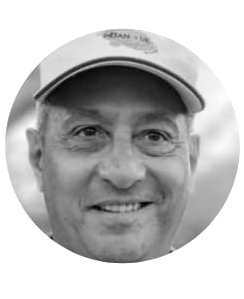
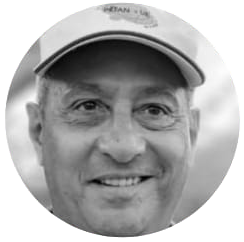
6 mods: remove value borders, motto font size, translate labels, consistent headers, contact crop/compact, news scroll

diff --git a/src/app/[locale]/contact/page.tsx b/src/app/[locale]/contact/page.tsx
@@ -19,8 +19,8 @@ function ContactContent() {
     <>
       {/* Header */}
       <section style={{ background: "#0a0a0a", color: "#fff", borderBottom: "2px solid #F06000" }}>
-        <div className="max-w-7xl mx-auto px-6 py-12">
-          <p className="text-xs font-black uppercase tracking-widest mb-4" style={{ color: "#F06000" }}>
+        <div className="max-w-7xl mx-auto px-6 py-8">
+          <p className="text-xs font-black uppercase tracking-widest mb-3" style={{ color: "#F06000" }}>
             05 — Club Sportiv Pétanque Corbeanca
           </p>
           <h1
@@ -45,7 +45,7 @@ function ContactContent() {
             {contacts.map((c, i) => (
               <div
                 key={c.label}
-                className="px-6 py-8 grid md:grid-cols-3 items-center"
+                className="px-6 py-5 grid md:grid-cols-3 items-center"
                 style={{ borderBottom: i < contacts.length - 1 ? "2px solid #f2f2f2" : "none" }}
               >
                 <p className="text-xs font-black uppercase tracking-widest mb-2 md:mb-0" style={{ color: "#888" }}>
@@ -72,7 +72,7 @@ function ContactContent() {
 
           {/* Right image — hidden on mobile */}
           <div className="hidden md:block" style={{ overflow: "hidden", borderLeft: "2px solid #0a0a0a" }}>
-            <img src="/petanque-corbeanca-vert.jpg" alt="Club Sportiv Pétanque Corbeanca" style={{ width: "100%", height: "100%", objectFit: "cover", objectPosition: "center center" }} />
+            <img src="/petanque-corbeanca-vert.jpg" alt="Club Sportiv Pétanque Corbeanca" style={{ width: "100%", height: "100%", objectFit: "cover", objectPosition: "center 65%" }} />
           </div>
 
         </div>
@@ -81,7 +81,7 @@ function ContactContent() {
 
       {/* Note */}
       <section style={{ background: "#F06000", color: "#fff" }}>
-        <div className="max-w-7xl mx-auto px-6 py-12">
+        <div className="max-w-7xl mx-auto px-6 py-6">
           <p className="font-black uppercase text-2xl md:text-3xl mb-2" style={{ letterSpacing: "-0.03em" }}>
             {t("message_title")}
           </p>

diff --git a/src/app/[locale]/about/page.tsx b/src/app/[locale]/about/page.tsx
@@ -33,7 +33,7 @@ function AboutContent() {
           <div className="grid md:grid-cols-2 gap-16 pb-10">
             <div>
               <p className="text-xs font-black uppercase tracking-widest mb-4" style={{ color: "#F06000" }}>
-                Istoria clubului
+                {t("history_label")}
               </p>
               <h2 className="font-black uppercase text-2xl md:text-3xl mb-6" style={{ letterSpacing: "-0.03em" }}>
                 {t("history_title")}
@@ -42,7 +42,7 @@ function AboutContent() {
             </div>
             <div style={{ paddingLeft: "3rem" }}>
               <p className="text-xs font-black uppercase tracking-widest mb-4" style={{ color: "#F06000" }}>
-                Sportul
+                {t("sport_label")}
               </p>
               <h2 className="font-black uppercase text-2xl md:text-3xl mb-6" style={{ letterSpacing: "-0.03em" }}>
                 {t("petanque_title")}
@@ -76,7 +76,6 @@ function AboutContent() {
               <div
                 key={item.n}
                 className="p-8 md:p-10"
-                style={{ borderRight: i < 2 ? "2px solid #0a0a0a" : "none" }}
               >
                 <p className="font-black text-5xl mb-6" style={{ color: "#f2f2f2", WebkitTextStroke: "2px #0a0a0a" }}>
                   {item.emoji}
@@ -169,7 +168,7 @@ function AboutContent() {
             </p>
             <h2
               className="font-black uppercase leading-none mb-6"
-              style={{ fontSize: "clamp(3rem, 10vw, 7rem)", letterSpacing: "-0.04em", lineHeight: 0.88 }}
+              style={{ fontSize: "clamp(2rem, 6vw, 4.5rem)", letterSpacing: "-0.04em", lineHeight: 0.9 }}
             >
               {t("motto_line1")}<br />
               <span style={{ color: "rgba(255,255,255,0.3)" }}>{t("motto_line2")}</span><br />

diff --git a/src/app/[locale]/news/page.tsx b/src/app/[locale]/news/page.tsx
@@ -78,7 +78,7 @@ function NewsContent() {
   return (
     <>
       <section style={{ background: "#0a0a0a", color: "#fff", borderBottom: "2px solid #F06000" }}>
-        <div className="max-w-7xl mx-auto px-6 py-14">
+        <div className="max-w-7xl mx-auto px-6 py-8">
           <p className="text-xs font-black uppercase tracking-widest mb-3" style={{ color: "#F06000" }}>
             04 — Știri
           </p>
@@ -103,11 +103,11 @@ function NewsContent() {
         <div className="max-w-7xl mx-auto grid grid-cols-1 md:grid-cols-[1fr_400px]">
 
           {/* Articles */}
-          <div>
+          <div style={{ overflowY: "auto", maxHeight: "580px" }}>
           {articles.map((article, i) => {
             const inner = (
               <div
-                className="px-6 py-7 grid md:grid-cols-4 gap-4 items-start group"
+                className="px-6 py-4 grid md:grid-cols-4 gap-4 items-start group"
                 style={{ borderBottom: i < articles.length - 1 ? "2px solid #f2f2f2" : "none" }}
               >
                 <div>

diff --git a/src/app/[locale]/events/page.tsx b/src/app/[locale]/events/page.tsx
@@ -26,8 +26,8 @@ function EventsContent() {
   return (
     <>
       <section style={{ background: "#0a0a0a", color: "#fff", borderBottom: "2px solid #F06000" }}>
-        <div className="max-w-7xl mx-auto px-6 py-14">
-          <p className="text-xs font-black uppercase tracking-widest mb-4" style={{ color: "#F06000" }}>
+        <div className="max-w-7xl mx-auto px-6 py-8">
+          <p className="text-xs font-black uppercase tracking-widest mb-3" style={{ color: "#F06000" }}>
             02 — Evenimente
           </p>
           <h1 className="font-black uppercase" style={{ fontSize: "clamp(2rem, 6vw, 4.5rem)", letterSpacing: "-0.04em", lineHeight: 0.9 }}>
